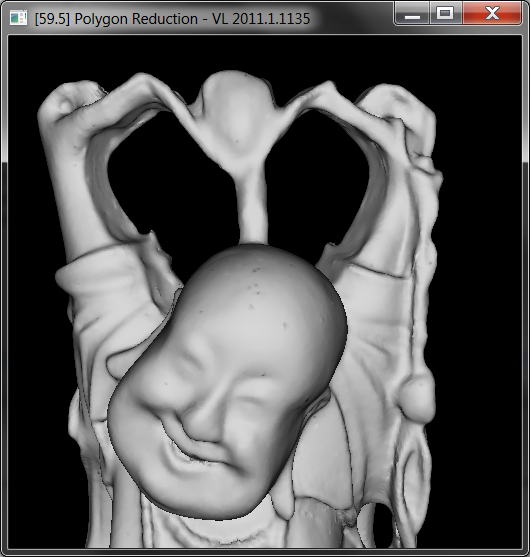
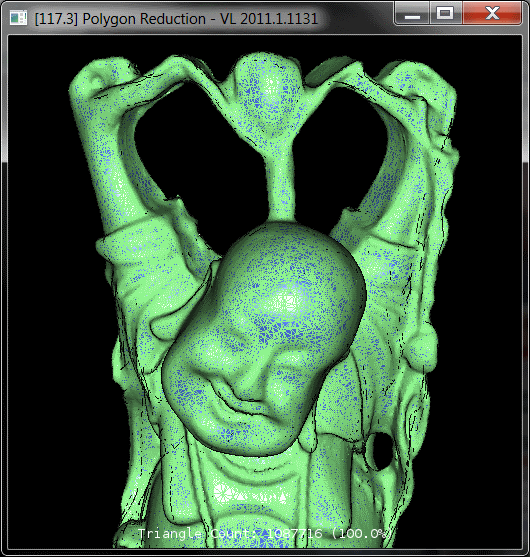
polygon simplification demo retouched

diff --git a/trunk/Visualization_Library_SDK/src/examples/Applets/App_PolygonReduction.cpp b/trunk/Visualization_Library_SDK/src/examples/Applets/App_PolygonReduction.cpp
@@ -40,11 +40,12 @@
 
 using namespace vl;
 
+static const int stages = 5;
+static const float ratios[] = { 1.0f, 0.5f, 0.20f, 0.05f, 0.01f };
+
 class App_PolygonReduction: public BaseDemo
 {
 public:
-  static const int stages = 5;
-
   App_PolygonReduction(const String& path): mFileName(path), mActiveActor(0) {}
 
   void initEvent()
@@ -91,6 +92,8 @@ public:
     mText->setFont( defFontManager()->acquireFont("/font/bitstream-vera/VeraMono.ttf", 10) );
     mText->setAlignment( AlignHCenter | AlignBottom );
     mText->setViewportAlignment( AlignHCenter | AlignBottom );
+    mText->setBackgroundEnabled(true);
+    mText->setBackgroundColor(vec4(0,0,0,0.5f));
     ref<Effect> effect = new Effect;
     effect->shader()->enable(EN_BLEND);
     mTextActor = sceneManager()->tree()->addActor(mText.get(), effect.get());
@@ -107,10 +110,9 @@ public:
     PolygonSimplifier simplifier;
     simplifier.setQuick(false);
     simplifier.setVerbose(true);
-    float ratio = 0.60f;
-    for(int i=1; i<stages; ++i, ratio *= 0.60f)
+    for(int i=1; i<stages; ++i)
     {
-      simplifier.simplify( ratio, mGeom[i].get() );
+      simplifier.simplify( ratios[i], mGeom[i].get() );
       Log::print("\n");
     }
 
@@ -128,7 +130,6 @@ public:
 
     /* position the camera to nicely see the scene */
     trackball()->adjustView( sceneManager(), vec3(0,0,1)/*direction*/, vec3(0,1,0)/*up*/, 0.75f/*bias*/ );
-
   }
 
   virtual void run()
@@ -139,7 +140,8 @@ public:
     sceneManager()->tree()->addActor( mActors[mActiveActor].get() );
     sceneManager()->tree()->addActor( mTextActor.get() );
     /* update label */
-    mText->setText( Say("Triangle Count: %n") << mGeom[mActiveActor]->drawCalls()->at(0)->as<vl::DrawElementsUInt>()->indices()->size() / 3 );
+    float percent = 100.0f * mGeom[mActiveActor]->drawCalls()->at(0)->as<vl::DrawElementsUInt>()->indices()->size() / mGeom[0]->drawCalls()->at(0)->as<vl::DrawElementsUInt>()->indices()->size();
+    mText->setText( Say("Triangle Count: %n (%.1n%%)") << mGeom[mActiveActor]->drawCalls()->at(0)->as<vl::DrawElementsUInt>()->indices()->size() / 3 << percent );
   }
 
   void fileDroppedEvent(const std::vector<vl::String>& files)

diff --git a/trunk/Visualization_Library_SDK/src/vlGraphics/PolygonSimplifier.cpp b/trunk/Visualization_Library_SDK/src/vlGraphics/PolygonSimplifier.cpp
@@ -164,17 +164,17 @@ void PolygonSimplifier::simplify(int target_vertex_count, Geometry* geom)
 //-----------------------------------------------------------------------------
 void PolygonSimplifier::simplify(int target_vertex_count, std::vector<fvec3>& in_out_verts, std::vector<int>& in_out_tris)
 {
-  mSimplifiedVertices.clear();
-  mSimplifiedTriangles.clear();
-  mProtectedVerts.clear();
-  mTriangleLump.clear();
-  mVertexLump.clear();
-
   if (verbose())
     Log::print("PolygonSimplifier::simplify() starting ... \n");
 
   Time timer;
   timer.start();
+
+  mSimplifiedVertices.clear();
+  mSimplifiedTriangles.clear();
+  mProtectedVerts.clear();
+  mTriangleLump.clear();
+  mVertexLump.clear(); // mic fixme: this is the one taking time to clearup.
 
   // preallocate vertices and triangles in one chunk
   mTriangleLump.resize(in_out_tris.size()/3);
